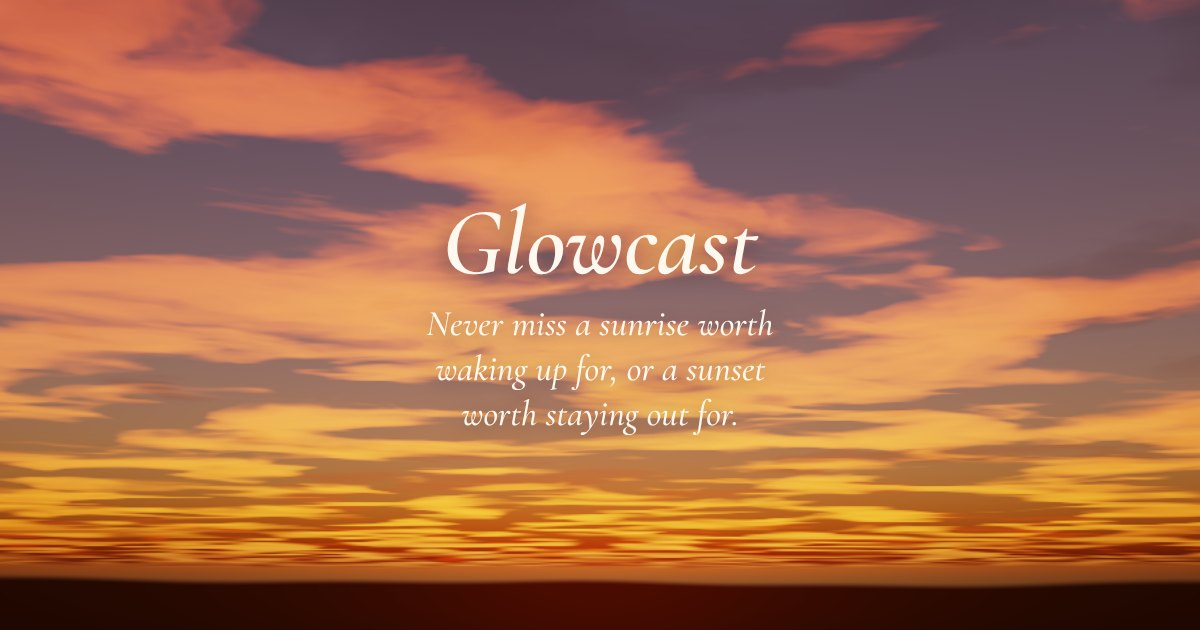
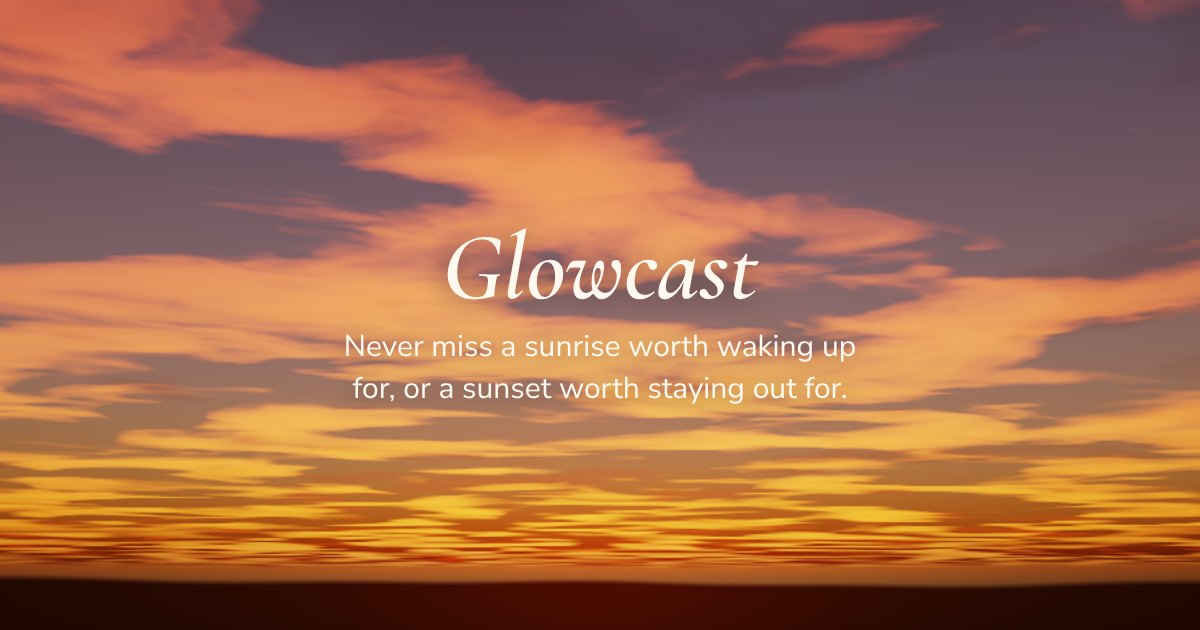
Use Nunito Sans for sentences; keep Cormorant for short display text
Claude-Session: https://claude.ai/code/session_01VSqZoWDi6NeMqDRBRAc7uN

Changed region(s): [[0.2775, 0.3317, 0.7092, 0.6937]]

diff --git a/styles.css b/styles.css
@@ -42,7 +42,7 @@ button { font: inherit; color: inherit; cursor: pointer; }
 .top { display: grid; grid-template-columns: 1fr auto 1fr; align-items: start; gap: 16px; padding-block: 20px 4px; }
 .top .navlink { justify-self: end; padding-top: 6px; }
 .brandbox { display: flex; flex-direction: column; align-items: center; gap: 2px; text-align: center; }
-.tagline { margin: 0; font: italic 500 19px/1.3 var(--display); color: var(--muted); max-width: 62ch; text-wrap: balance; }
+.tagline { margin: 0; font: 400 15px/1.5 var(--body); color: var(--muted); max-width: 62ch; text-wrap: balance; }
 .brand { display: flex; align-items: center; gap: 10px; font: italic 600 28px/1 var(--display); text-decoration: none; }
 .mark { width: 22px; height: 22px; border-radius: 50%; background: radial-gradient(circle at 50% 70%, #fff3d6, var(--gold-soft) 45%, var(--gold) 85%); clip-path: inset(0 0 35% 0); }
 .navlink { font-size: 14px; color: var(--muted); text-decoration: none; }
@@ -57,7 +57,7 @@ button { font: inherit; color: inherit; cursor: pointer; }
 .wrap-top .status { text-align: center; }
 .where h1 { margin: 0; font: italic 600 clamp(38px, 4.6vw, 56px)/1 var(--display); letter-spacing: -0.01em; }
 .region-row { margin: 0; display: flex; align-items: baseline; justify-content: center; gap: 16px; flex-wrap: wrap; }
-.region { font: italic 500 20px/1.2 var(--display); color: var(--muted); }
+.region { font: 400 15px/1.4 var(--body); color: var(--muted); }
 .region-row .textbtn { padding: 4px 0; }
 .city { border: 0; background: none; padding: 0; font: inherit; color: inherit; }
 .city:hover { color: var(--t-vivid); }
@@ -89,7 +89,7 @@ button { font: inherit; color: inherit; cursor: pointer; }
   padding: 10px 18px 12px; border-radius: 16px; color: #fff;
   background: rgb(28 20 18 / 0.42); backdrop-filter: blur(10px); -webkit-backdrop-filter: blur(10px);
 }
-.b-when { font: italic 500 18px/1.2 var(--display); opacity: 0.9; }
+.b-when { font: 600 13px/1.3 var(--body); opacity: 0.92; }
 .b-label { font: 600 30px/1.05 var(--display); }
 #sky { display: block; width: 100%; height: 100%; object-fit: cover; }
 .scrub { gap: 0; padding-top: 6px; }
@@ -101,15 +101,15 @@ button { font: inherit; color: inherit; cursor: pointer; }
 .scrub input::-moz-range-thumb { width: 11px; height: 11px; border-radius: 50%; background: #fff; border: 1.5px solid var(--gold); cursor: grab; }
 .scrub input:active::-webkit-slider-thumb { cursor: grabbing; }
 .scrub-meta { margin: 2px 0 0; font-size: 14px; color: var(--muted); }
-.hint { margin: 0 0 2px; font: italic 500 18px var(--display); color: var(--muted); }
+.hint { margin: 0 0 2px; font: 400 14px/1.4 var(--body); color: var(--muted); }
 
 /* Answer */
 .summary { display: grid; grid-template-columns: 1.35fr 1fr; gap: 40px 64px; align-items: start; }
 .verdict { min-width: 0; }
-.kicker { margin: 0 0 4px; font: italic 500 26px/1.2 var(--display); color: var(--muted); }
+.kicker { margin: 0 0 6px; font: 600 15px/1.3 var(--body); color: var(--muted); }
 .heading { margin: 0 0 18px; font: 600 34px/1.1 var(--display); }
 .v-title { margin: 0; font: 600 clamp(56px, 8vw, 88px)/1 var(--display); color: var(--tone); }
-.v-line { margin: 12px 0 0; font: 500 clamp(22px, 2.6vw, 28px)/1.3 var(--display); max-width: 30ch; text-wrap: pretty; }
+.v-line { margin: 12px 0 0; font: 600 clamp(18px, 2vw, 21px)/1.45 var(--body); max-width: 40ch; text-wrap: pretty; }
 .why { margin: 16px 0 0; color: var(--ink); max-width: 58ch; }
 .v-conf { margin: 18px 0 0; font-size: 14px; color: var(--muted); max-width: 60ch; }
 .facts { margin: 0; display: flex; flex-direction: column; }
@@ -167,7 +167,7 @@ button { font: inherit; color: inherit; cursor: pointer; }
 .prose h2 { margin: 40px 0 8px; font: 600 30px/1.15 var(--display); }
 .prose p, .prose li { color: var(--ink); }
 .prose ul { padding-left: 20px; display: flex; flex-direction: column; gap: 6px; }
-.prose .lede { margin-top: 8px; font: 500 24px/1.35 var(--display); color: var(--muted); }
+.prose .lede { margin-top: 8px; font: 400 19px/1.5 var(--body); color: var(--muted); }
 .prose dl { margin: 0; }
 .prose dl div { padding: 10px 0; border-bottom: 1px solid var(--line); }
 .prose dt { font-weight: 700; }

diff --git a/index.html b/index.html
@@ -25,7 +25,7 @@
 <link rel="preconnect" href="https://fonts.googleapis.com">
 <link rel="preconnect" href="https://fonts.gstatic.com" crossorigin>
 <link rel="stylesheet" href="https://fonts.googleapis.com/css2?family=Cormorant+Garamond:ital,wght@0,500;0,600;0,700;1,500;1,600&family=Nunito+Sans:opsz,wght@6..12,400;6..12,600;6..12,700&family=DM+Mono:wght@400;500&display=swap">
-<link rel="stylesheet" href="styles.css?v=25">
+<link rel="stylesheet" href="styles.css?v=26">
 </head>
 <body>
 <!--BODY-->
@@ -109,6 +109,6 @@
   <p>Weather data from <a href="https://open-meteo.com/" target="_blank" rel="noopener">Open-Meteo</a>.</p>
 </footer>
 <!--/BODY-->
-<script type="module" src="js/app.js?v=25"></script>
+<script type="module" src="js/app.js?v=26"></script>
 </body>
 </html>

diff --git a/js/app.js b/js/app.js
@@ -1,8 +1,8 @@
-import { fetchForecast, searchPlaces } from './api.js?v=25';
-import { buildDays, labelFor } from './score.js?v=25';
-import { sunPosition, compass } from './sun.js?v=25';
-import { SkyRenderer } from './sky.js?v=25';
-import { GLSky } from './sky-gl.js?v=25';
+import { fetchForecast, searchPlaces } from './api.js?v=26';
+import { buildDays, labelFor } from './score.js?v=26';
+import { sunPosition, compass } from './sun.js?v=26';
+import { SkyRenderer } from './sky.js?v=26';
+import { GLSky } from './sky-gl.js?v=26';
 
 const $ = (s) => document.querySelector(s);
 const state = { place: null, days: [], sel: null, offset: 0, data: null };

diff --git a/how.html b/how.html
@@ -11,7 +11,7 @@
 <link rel="preconnect" href="https://fonts.googleapis.com">
 <link rel="preconnect" href="https://fonts.gstatic.com" crossorigin>
 <link rel="stylesheet" href="https://fonts.googleapis.com/css2?family=Cormorant+Garamond:ital,wght@0,500;0,600;0,700;1,500;1,600&family=Nunito+Sans:opsz,wght@6..12,400;6..12,600;6..12,700&family=DM+Mono:wght@400;500&display=swap">
-<link rel="stylesheet" href="styles.css?v=25">
+<link rel="stylesheet" href="styles.css?v=26">
 </head>
 <body>
 <!--BODY-->
